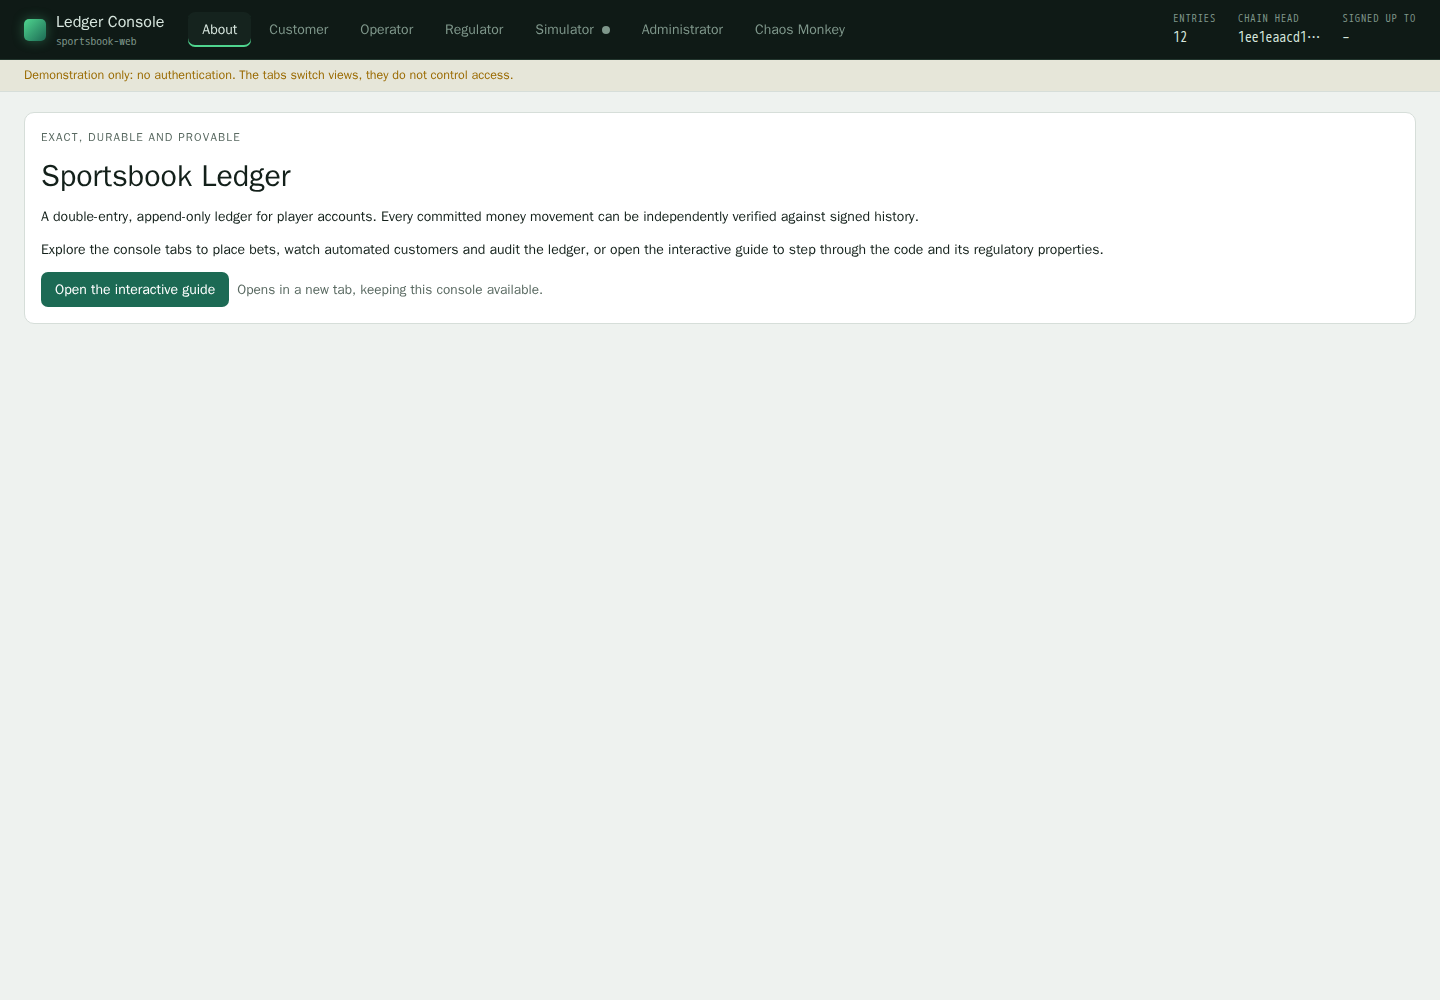
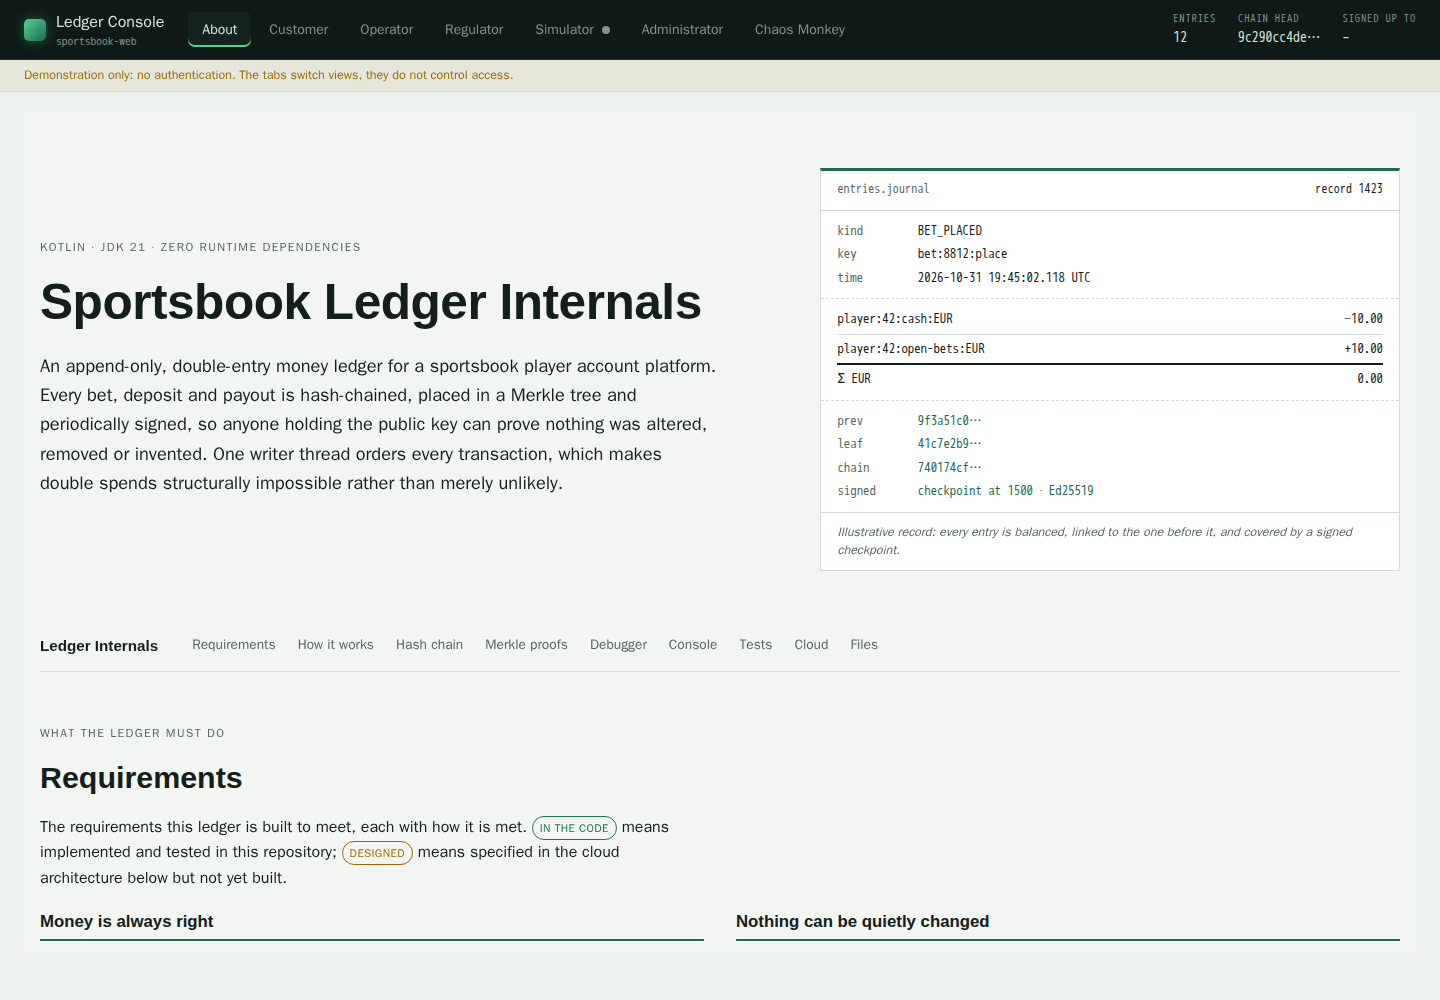
Restore the embedded About guide and allow framing
Keep the original in-console guide at the owner request and remove CSP frame-ancestors and X-Frame-Options restrictions. Preserve Host/Origin checks, exercise interactive controls inside the iframe in Chromium, and update documentation and the inspected screenshot.

diff --git a/docs/index.html b/docs/index.html
@@ -543,7 +543,7 @@ footer{margin-top:48px;color:var(--muted);font-size:.84rem}
   </ul>
   <p class="prose">If a response is lost, unreadable or truncated, wallet actions and bet slips keep their original request for an idempotent retry. An unresolved bet slip cannot be edited or cancelled.</p>
   <p class="prose">Publishing a fixture result closes new cash-outs, including when a restored result is unresolved. Cash-outs already admitted while the fixture was open retain their original outcome for retry, even if the result arrives before commitment. The simulator uses the same guard.</p>
-  <p class="prose">The server rejects malformed or ambiguous forms and forbids framing. The console's About view opens this guide in a separate top-level tab, keeping the console available without embedding either page. New wallet identifiers must fit the full bet lifecycle; committed legacy deposits, withdrawals and placements still replay through the ledger's fingerprint checks, even when their identifiers no longer meet admission rules. See <a href="https://github.com/PaulMaddox/ledger/blob/main/AGENTS.md#api-and-wallet-boundaries">API limits and production boundaries</a> for the exact admission rules. This remains an unauthenticated synthetic-money demo.</p>
+  <p class="prose">The server rejects malformed or ambiguous forms. The console's About view embeds this interactive guide directly; the demo intentionally permits framing. New wallet identifiers must fit the full bet lifecycle; committed legacy deposits, withdrawals and placements still replay through the ledger's fingerprint checks, even when their identifiers no longer meet admission rules. See <a href="https://github.com/PaulMaddox/ledger/blob/main/AGENTS.md#api-and-wallet-boundaries">API limits and production boundaries</a> for the exact admission rules. This remains an unauthenticated synthetic-money demo.</p>
   <p class="prose">Operator totals and chart samples use exact open-bet aggregates maintained as the read model tails committed entries, rather than copying and sorting every open bet on each poll. The aggregates rebuild from verified history after a restart and never decide money movements. This reduces dashboard allocation and garbage collection; the demo still retains the full ledger history and its indexes in memory, so its live heap grows with committed entries.</p>
   <figure class="shot wide">
     <a href="screenshots/simulator.png"><img src="screenshots/simulator.png" alt="Simulator view: controls, live counters, and a wall of tiles, one per automated customer, each streaming its latest actions" loading="lazy"></a>

diff --git a/docs/readme.src.html b/docs/readme.src.html
@@ -531,7 +531,7 @@ footer{margin-top:48px;color:var(--muted);font-size:.84rem}
   </ul>
   <p class="prose">If a response is lost, unreadable or truncated, wallet actions and bet slips keep their original request for an idempotent retry. An unresolved bet slip cannot be edited or cancelled.</p>
   <p class="prose">Publishing a fixture result closes new cash-outs, including when a restored result is unresolved. Cash-outs already admitted while the fixture was open retain their original outcome for retry, even if the result arrives before commitment. The simulator uses the same guard.</p>
-  <p class="prose">The server rejects malformed or ambiguous forms and forbids framing. The console's About view opens this guide in a separate top-level tab, keeping the console available without embedding either page. New wallet identifiers must fit the full bet lifecycle; committed legacy deposits, withdrawals and placements still replay through the ledger's fingerprint checks, even when their identifiers no longer meet admission rules. See <a href="https://github.com/PaulMaddox/ledger/blob/main/AGENTS.md#api-and-wallet-boundaries">API limits and production boundaries</a> for the exact admission rules. This remains an unauthenticated synthetic-money demo.</p>
+  <p class="prose">The server rejects malformed or ambiguous forms. The console's About view embeds this interactive guide directly; the demo intentionally permits framing. New wallet identifiers must fit the full bet lifecycle; committed legacy deposits, withdrawals and placements still replay through the ledger's fingerprint checks, even when their identifiers no longer meet admission rules. See <a href="https://github.com/PaulMaddox/ledger/blob/main/AGENTS.md#api-and-wallet-boundaries">API limits and production boundaries</a> for the exact admission rules. This remains an unauthenticated synthetic-money demo.</p>
   <p class="prose">Operator totals and chart samples use exact open-bet aggregates maintained as the read model tails committed entries, rather than copying and sorting every open bet on each poll. The aggregates rebuild from verified history after a restart and never decide money movements. This reduces dashboard allocation and garbage collection; the demo still retains the full ledger history and its indexes in memory, so its live heap grows with committed entries.</p>
   <figure class="shot wide">
     <a href="screenshots/simulator.png"><img src="screenshots/simulator.png" alt="Simulator view: controls, live counters, and a wall of tiles, one per automated customer, each streaming its latest actions" loading="lazy"></a>

diff --git a/src/main/resources/web/about.html b/src/main/resources/web/about.html
@@ -543,7 +543,7 @@ footer{margin-top:48px;color:var(--muted);font-size:.84rem}
   </ul>
   <p class="prose">If a response is lost, unreadable or truncated, wallet actions and bet slips keep their original request for an idempotent retry. An unresolved bet slip cannot be edited or cancelled.</p>
   <p class="prose">Publishing a fixture result closes new cash-outs, including when a restored result is unresolved. Cash-outs already admitted while the fixture was open retain their original outcome for retry, even if the result arrives before commitment. The simulator uses the same guard.</p>
-  <p class="prose">The server rejects malformed or ambiguous forms and forbids framing. The console's About view opens this guide in a separate top-level tab, keeping the console available without embedding either page. New wallet identifiers must fit the full bet lifecycle; committed legacy deposits, withdrawals and placements still replay through the ledger's fingerprint checks, even when their identifiers no longer meet admission rules. See <a href="https://github.com/PaulMaddox/ledger/blob/main/AGENTS.md#api-and-wallet-boundaries">API limits and production boundaries</a> for the exact admission rules. This remains an unauthenticated synthetic-money demo.</p>
+  <p class="prose">The server rejects malformed or ambiguous forms. The console's About view embeds this interactive guide directly; the demo intentionally permits framing. New wallet identifiers must fit the full bet lifecycle; committed legacy deposits, withdrawals and placements still replay through the ledger's fingerprint checks, even when their identifiers no longer meet admission rules. See <a href="https://github.com/PaulMaddox/ledger/blob/main/AGENTS.md#api-and-wallet-boundaries">API limits and production boundaries</a> for the exact admission rules. This remains an unauthenticated synthetic-money demo.</p>
   <p class="prose">Operator totals and chart samples use exact open-bet aggregates maintained as the read model tails committed entries, rather than copying and sorting every open bet on each poll. The aggregates rebuild from verified history after a restart and never decide money movements. This reduces dashboard allocation and garbage collection; the demo still retains the full ledger history and its indexes in memory, so its live heap grows with committed entries.</p>
   <figure class="shot wide">
     <a href="screenshots/simulator.png"><img src="screenshots/simulator.png" alt="Simulator view: controls, live counters, and a wall of tiles, one per automated customer, each streaming its latest actions" loading="lazy"></a>

diff --git a/src/test/kotlin/com/pam/ledger/WebAppTest.kt b/src/test/kotlin/com/pam/ledger/WebAppTest.kt
@@ -462,14 +462,13 @@ class WebAppTest {
         assertEquals(200, console.statusCode())
         assertTrue(console.body().indexOf("data-view=\"about\"") < console.body().indexOf("data-view=\"customer\""))
         assertTrue(console.body().contains("id=\"view-about\""))
-        assertFalse(console.body().contains("<iframe"))
-        assertTrue(console.body().contains("id=\"aboutGuide\" href=\"/about/\" target=\"_blank\" rel=\"noopener\""))
+        assertTrue(console.body().contains("<iframe class=\"about-frame\" src=\"/about/\""))
 
         val guide = http.send(HttpRequest.newBuilder(URI("http://127.0.0.1:${app.port}/about/")).GET().build(),
             HttpResponse.BodyHandlers.ofString())
         assertEquals(200, guide.statusCode())
-        assertEquals("frame-ancestors 'none'", guide.headers().firstValue("Content-Security-Policy").orElse(""))
-        assertEquals("DENY", guide.headers().firstValue("X-Frame-Options").orElse(""))
+        assertFalse(guide.headers().firstValue("Content-Security-Policy").isPresent)
+        assertFalse(guide.headers().firstValue("X-Frame-Options").isPresent)
         assertTrue(guide.body().contains("<title>Sportsbook Ledger Internals</title>"))
         assertTrue(guide.body().contains("screenshots/simulator.png"))
 
@@ -883,14 +882,14 @@ class WebAppTest {
     }
 
     @Test
-    fun `console pages forbid framing without blocking top-level navigation`() = withApp { app ->
+    fun `console pages permit framing and top-level navigation`() = withApp { app ->
         for (path in listOf("/", "/index.html")) {
             val request = HttpRequest.newBuilder(URI("http://127.0.0.1:${app.port}$path"))
                 .header("Sec-Fetch-Site", "cross-site").GET().build()
             val response = http.send(request, HttpResponse.BodyHandlers.ofString())
             assertEquals(200, response.statusCode())
-            assertEquals("frame-ancestors 'none'", response.headers().firstValue("Content-Security-Policy").orElse(""))
-            assertEquals("DENY", response.headers().firstValue("X-Frame-Options").orElse(""))
+            assertFalse(response.headers().firstValue("Content-Security-Policy").isPresent)
+            assertFalse(response.headers().firstValue("X-Frame-Options").isPresent)
         }
     }
 

diff --git a/src/main/resources/web/index.html b/src/main/resources/web/index.html
@@ -9,7 +9,7 @@
 <body>
 <!--
   Ledger Console: a single-page dashboard over the running ledger.
-  About links to the guide; six console views share operational telemetry and isolated failure experiments.
+  The About guide and six console views share one header, with operational telemetry and isolated failure experiments.
   All behaviour lives in app.js; all data comes from /api/* on the same server.
 -->
 <header class="topbar">
@@ -36,17 +36,8 @@
 
 <main>
 <!-- ============================== ABOUT ============================== -->
-<section class="view" id="view-about" hidden>
-  <div class="panel">
-    <div class="eyebrow">Exact, durable and provable</div>
-    <h1>Sportsbook Ledger</h1>
-    <p>A double-entry, append-only ledger for player accounts. Every committed money movement can be independently verified against signed history.</p>
-    <p>Explore the console tabs to place bets, watch automated customers and audit the ledger, or open the interactive guide to step through the code and its regulatory properties.</p>
-    <div class="row">
-      <a class="about-link" id="aboutGuide" href="/about/" target="_blank" rel="noopener">Open the interactive guide</a>
-      <span class="hint">Opens in a new tab, keeping this console available.</span>
-    </div>
-  </div>
+<section class="view about-view" id="view-about" hidden>
+  <iframe class="about-frame" src="/about/" title="PAM Ledger documentation" loading="lazy"></iframe>
 </section>
 
 <!-- ============================== CUSTOMER ============================== -->

diff --git a/src/main/resources/web/app.css b/src/main/resources/web/app.css
@@ -60,8 +60,8 @@ button, input, select { font: inherit; color: inherit; }
 
 main { padding: 20px 24px 48px; max-width: 1600px; margin: 0 auto; }
 .view { display: grid; gap: 16px; }
-.about-link { padding: 7px 14px; border-radius: 7px; background: var(--accent); color: var(--accent-ink); font-weight: 600; text-decoration: none; }
-.about-link:hover { text-decoration: underline; }
+.about-view { gap: 0; }
+.about-frame { display: block; width: 100%; height: calc(100vh - 160px); min-height: 640px; border: 0; background: var(--panel); }
 
 /* ---------- panels and common controls ---------- */
 .panel { background: var(--panel); border: 1px solid var(--rule); border-radius: 10px; padding: 16px; display: grid; gap: 12px; align-content: start; min-width: 0; }

diff --git a/src/main/kotlin/com/pam/ledger/web/WebApp.kt b/src/main/kotlin/com/pam/ledger/web/WebApp.kt
@@ -386,8 +386,6 @@ class LedgerWebApp private constructor(
     private class HttpError(val status: Int, val code: String, message: String) : RuntimeException(message)
 
     private fun handle(ex: HttpExchange) {
-        ex.responseHeaders.set("Content-Security-Policy", "frame-ancestors 'none'")
-        ex.responseHeaders.set("X-Frame-Options", "DENY")
         ex.responseHeaders.set("Connection", "close")
         // A busy API is not a dead HTTP executor; liveness bypasses admission, not the executor.
         val liveness = ex.requestMethod == "GET" && ex.requestURI.rawPath == "/health/live"

diff --git a/scripts/capture-screenshots.py b/scripts/capture-screenshots.py
@@ -10,7 +10,7 @@ Requires Playwright for Python and a Chromium-based browser:
     pip install playwright && python3 -m playwright install chromium
 or pass an existing Chrome with --chrome /path/to/chrome.
 Use --regulator-only to refresh the reporting screenshots without exercising Chaos Monkey.
-Use --about-only to check the default About view and its top-level guide link.
+Use --about-only to check the default About view and its embedded interactive guide.
 
 It drives the real UI: starts the simulator with 500 automated customers, lets traffic
 build up, then photographs each persona's view into docs/screenshots/. WARNING: the
@@ -55,17 +55,17 @@ async def main(url: str, out: pathlib.Path, chrome: str | None, warmup: int, reg
             await page.goto(url)
             await page.locator("#view-about").wait_for(state="visible")
             assert await page.locator("[data-view='about']").get_attribute("aria-selected") == "true"
-            assert await page.locator("iframe").count() == 0
-            await shot("about")
-            async with page.expect_popup() as popup:
-                await page.click("#aboutGuide")
-            guide = await popup.value
-            guide.on("pageerror", lambda e: errors.append(str(e)))
-            await guide.wait_for_load_state()
-            assert await guide.title() == "Sportsbook Ledger Internals"
+            assert await page.locator("iframe").count() == 1
+            guide = page.frame_locator(".about-frame")
             await guide.locator("h1").wait_for(state="visible")
+            assert await guide.locator("title").text_content() == "Sportsbook Ledger Internals"
+            await guide.locator("#modeAttack").click()
+            assert await guide.locator("#modeAttack").get_attribute("aria-pressed") == "true"
+            await guide.locator("#modeNaive").click()
+            assert await guide.locator("#modeNaive").get_attribute("aria-pressed") == "true"
+            await page.locator(".about-frame").evaluate("(frame) => frame.contentWindow.scrollTo(0, 0)")
+            await shot("about")
             assert await page.locator("#view-about").is_visible()
-            await guide.close()
         if about_only:
             await browser.close()
             if errors:
@@ -151,6 +151,6 @@ if __name__ == "__main__":
     ap.add_argument("--warmup", type=int, default=12, help="seconds of simulated traffic before the first screenshot")
     scope = ap.add_mutually_exclusive_group()
     scope.add_argument("--regulator-only", action="store_true", help="capture reporting views only; skip destructive Chaos Monkey scenarios")
-    scope.add_argument("--about-only", action="store_true", help="check and capture About and its guide link only")
+    scope.add_argument("--about-only", action="store_true", help="check and capture About and its embedded guide only")
     a = ap.parse_args()
     asyncio.run(main(a.url.rstrip("/") + "/", pathlib.Path(a.out).resolve(), a.chrome, a.warmup, a.regulator_only, a.about_only))

diff --git a/AGENTS.md b/AGENTS.md
@@ -211,9 +211,9 @@ JDK draining and forfeits the bounded-close guarantee.
 - Amounts are positive whole `Long` minor units; the book supplies fixture odds
   and cash-out prices. Validate simulator actions, settings, booleans and event
   cursors before mutation. Web deposits cannot claim internal `sim-seed-` references.
-- HTTP responses forbid framing with CSP `frame-ancestors 'none'` and
-  `X-Frame-Options: DENY`; top-level console links remain allowed. About opens
-  the guide in a new top-level tab, never an iframe. Check this browser flow and
+- The owner-approved demo intentionally permits framing so About embeds the
+  interactive guide within the console. Do not add anti-framing headers that
+  block it. Check this browser flow and
   refresh its screenshot with `python3 scripts/capture-screenshots.py --about-only`.
 
 The demo admission cap is not authentication or a production capacity policy.
